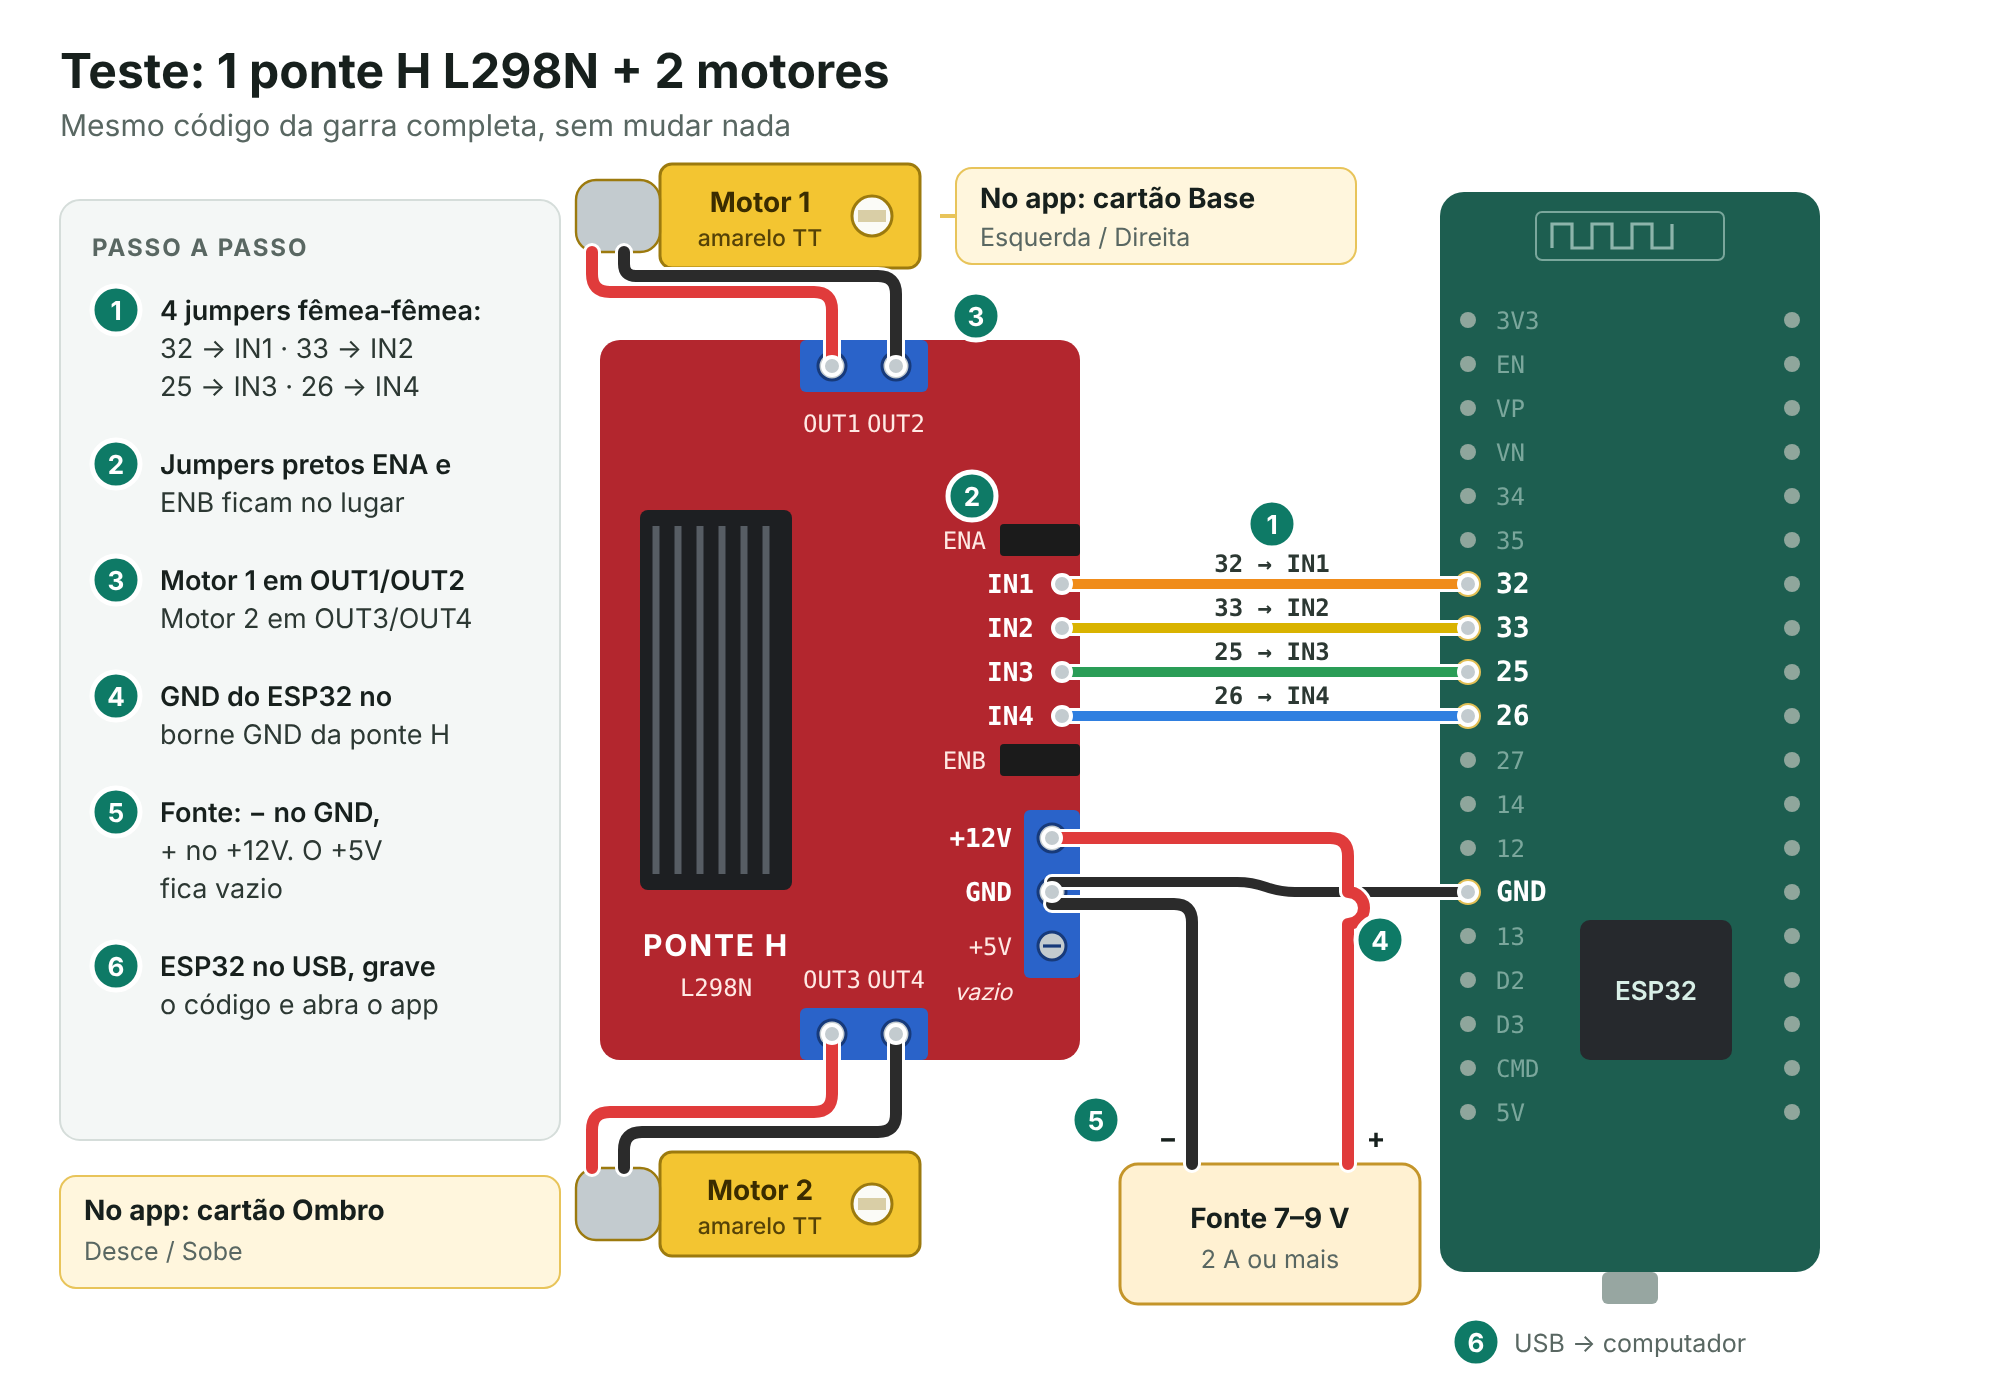
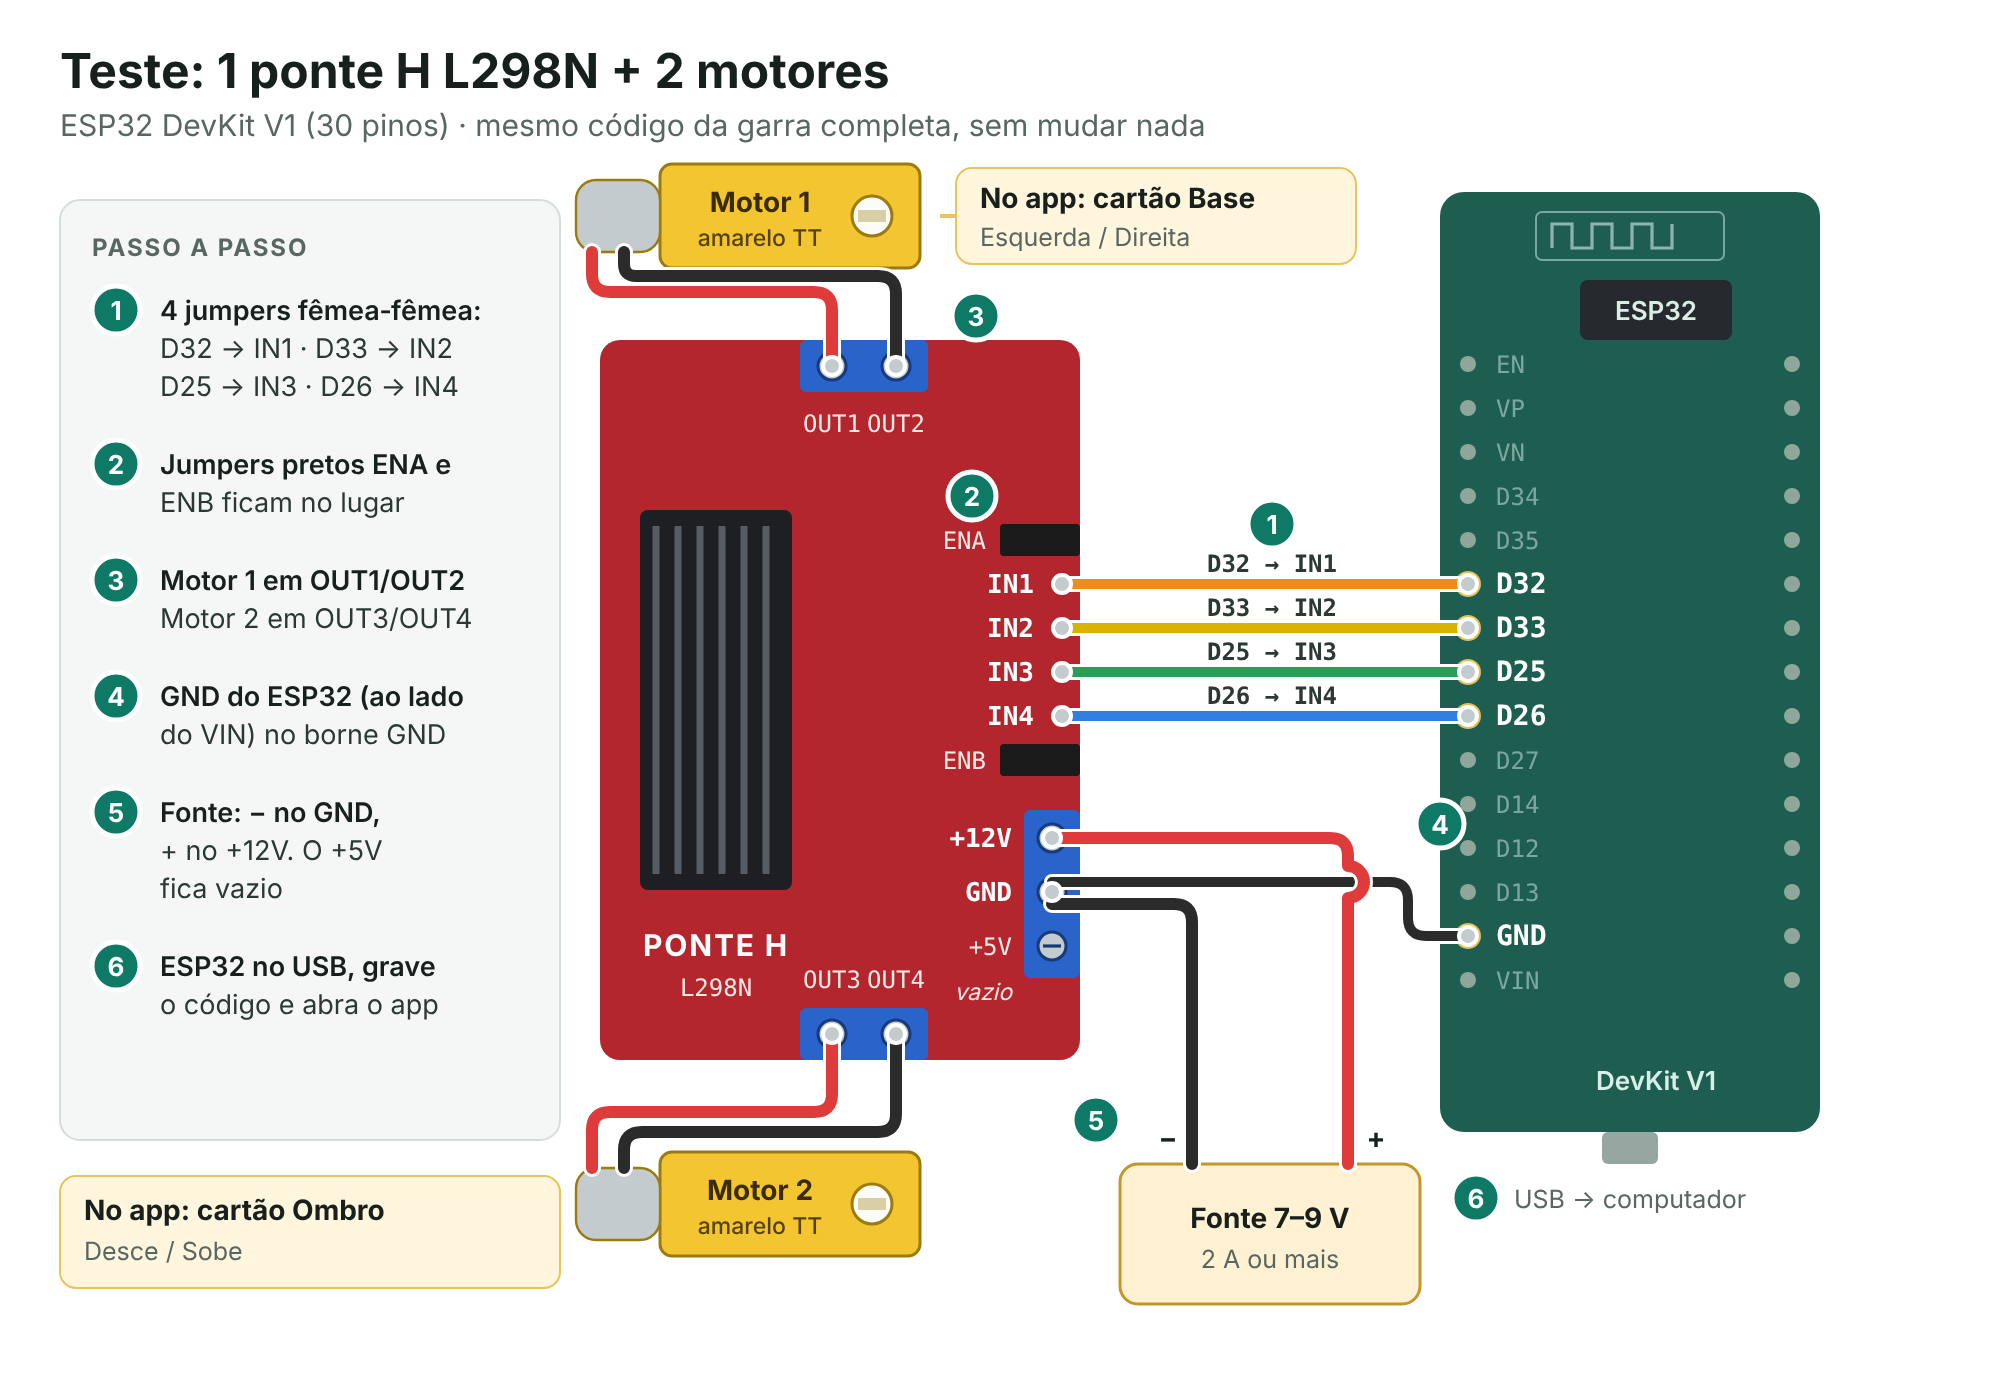
Teste rápido desenhado para a ESP32 DevKit V1 (30 pinos) e notas de compatibilidade
Claude-Session: https://claude.ai/code/session_019YX8GapXrWfQfoPvT8Z6v4

diff --git a/tutorial/00-teste-rapido.md b/tutorial/00-teste-rapido.md
@@ -6,6 +6,9 @@ Use esta montagem para **validar o código** quando você só tem **1 ponte H L2
 O código é **o mesmo da garra completa, sem nenhuma mudança**: a ponte H é ligada exatamente
 como a "Ponte H 1" da montagem final.
 
+O desenho é da **ESP32 DevKit V1 (30 pinos)**, onde os pinos vêm impressos com "D" na frente
+(D32, D33…). Na Arduino IDE, escolha a placa **DOIT ESP32 DEVKIT V1** ou **ESP32 Dev Module**: as duas funcionam.
+
 ![Teste com 1 ponte H L298N e 2 motores: pinos 32, 33, 25 e 26 do ESP32 nas entradas IN1 a IN4, motores nos bornes OUT, fonte e GND do ESP32 nos bornes de alimentação](../docs/img/teste-1-ponte-h.png)
 
 ## O que você precisa
@@ -26,11 +29,11 @@ Não precisa de protoboard: o fio − da fonte e o jumper do GND do ESP32 vão j
 
 | ESP32 | L298N |
 |---|---|
-| 32 | IN1 |
-| 33 | IN2 |
-| 25 | IN3 |
-| 26 | IN4 |
-| GND | borne GND (junto com o − da fonte) |
+| D32 | IN1 |
+| D33 | IN2 |
+| D25 | IN3 |
+| D26 | IN4 |
+| GND (o que fica ao lado do VIN) | borne GND (junto com o − da fonte) |
 
 | Motor / fonte | Borne do L298N |
 |---|---|

diff --git a/tutorial/04-ligacao-eletrica.md b/tutorial/04-ligacao-eletrica.md
@@ -21,6 +21,10 @@ sob comando do ESP32. Cada L298N controla 2 motores, por isso são 2 módulos.
 A Ponte H 1 usa pinos de um lado da placa ESP32 e a Ponte H 2 do outro lado, então os fios
 ficam retos. Em placas diferentes a posição física muda, mas os **números impressos** são os mesmos.
 
+> **ESP32 DevKit V1 (30 pinos):** todos esses pinos existem nela, impressos com "D" na frente
+> (D32, D33, D25, D26, D23, D22, D19, D18). O GND do lado esquerdo fica perto do **VIN**, e não
+> entre o 12 e o 13 como no desenho de 38 pinos. Siga sempre os nomes impressos na placa.
+
 ## Passo a passo (os números batem com o desenho)
 
 1. **Sinais:** 8 jumpers fêmea‑fêmea dos pinos do ESP32 até os pinos IN das pontes H.

diff --git a/tutorial/03-gravar-firmware.md b/tutorial/03-gravar-firmware.md
@@ -22,7 +22,7 @@ No GitHub: **Code → Download ZIP**, e **descompacte** o ZIP. Não abra o arqui
 
 ## 3.3 Configurar e gravar
 
-1. **Ferramentas → Placa → esp32 → ESP32 Dev Module**.
+1. **Ferramentas → Placa → esp32 → ESP32 Dev Module** (ou **DOIT ESP32 DEVKIT V1**, se for essa a sua placa: as duas funcionam).
 2. **Ferramentas → Porta** → a porta COM do ESP32. Se o menu estiver cinza, veja o
    [driver USB](02-arduino-ide.md#23-driver-usb-se-a-porta-não-aparecer).
 3. **✓ Verificar**: deve terminar com algo como `Sketch uses 1023507 bytes (78%)`.
